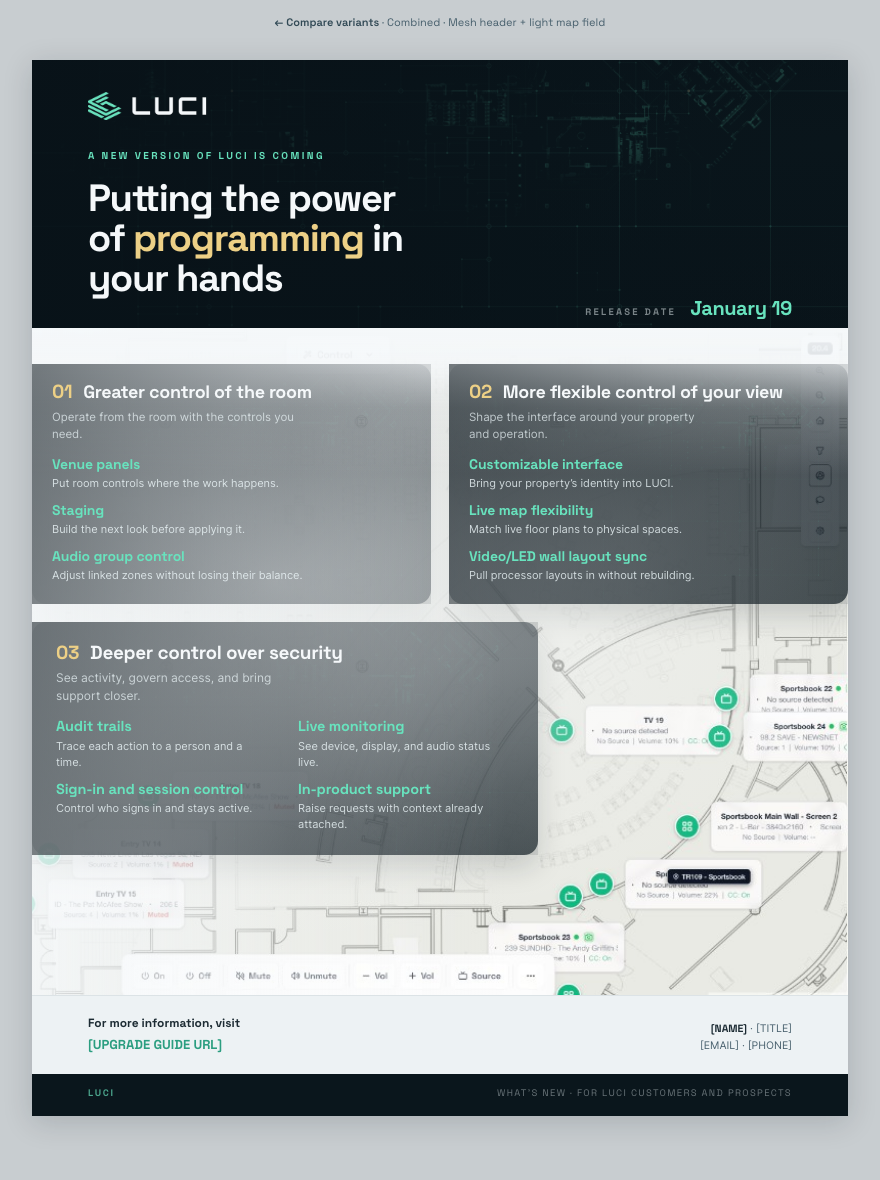
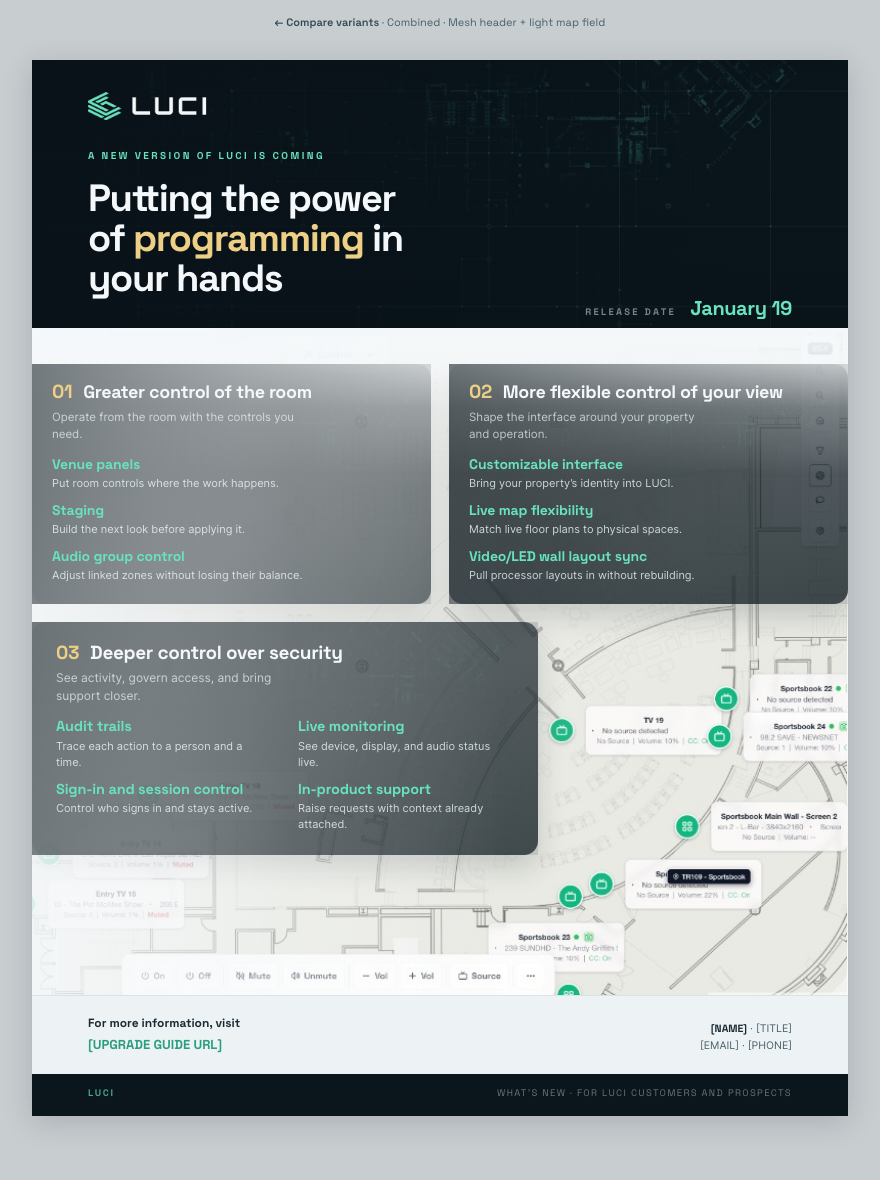
What's New one-pager: diagonal map fade, not a white circle
The radial wash read as a white halo behind the cards, not as the map
fading. Replaced with a 135deg linear fade in the map's own paper
tone (#F3F4F2) that quiets the floorplan lines toward the card
area (top-left) and clears by mid-field. No circular shape; the
map recedes toward the cards instead of having a circle behind them.

Changed region(s): [[0.2761, 0.3966, 0.7057, 0.6712]]

diff --git a/LUCI Systems Design System/ui_kits/sales/new-luci-whats-new-onepager-flow-c.html b/LUCI Systems Design System/ui_kits/sales/new-luci-whats-new-onepager-flow-c.html
@@ -68,9 +68,9 @@ body{font-family:var(--font-body);background:#c8cdd0;color:var(--ink);font-size:
 /* Three fades working together:
    - Top band: clean paper for the section label.
    - Left edge: muted entry-TV cards recede behind the live sportsbook side.
-   - Card area: the map fades behind where 01/02/03 sit (top-left
-     through mid), so the cards don't fight the floorplan lines. The
-     bottom-right stays vivid — that's the backwards L proof. */
+   - Card area: the map fades diagonally toward where 01/02/03 sit
+     (top-left), so the floorplan lines quiet behind the cards without
+     a circular halo. Clears by mid-field so the backwards L stays vivid. */
 .field__scrim{position:absolute;inset:0;z-index:1;pointer-events:none;
   background:
     linear-gradient(to bottom,
@@ -79,9 +79,9 @@ body{font-family:var(--font-body);background:#c8cdd0;color:var(--ink);font-size:
     linear-gradient(to right,
       rgba(245,248,250,0.82) 0%, rgba(245,248,250,0.62) 14%,
       rgba(245,248,250,0.24) 32%, transparent 58%),
-    radial-gradient(85% 62% at 30% 38%,
-      rgba(245,248,250,0.72) 0%, rgba(245,248,250,0.48) 30%,
-      rgba(245,248,250,0.18) 60%, rgba(245,248,250,0) 88%)}}
+    linear-gradient(135deg,
+      rgba(243,244,242,0.68) 0%, rgba(243,244,242,0.42) 28%,
+      rgba(243,244,242,0.12) 52%, transparent 72%)}}
 
 .copy{position:relative;z-index:2;height:100%;display:flex;flex-direction:column;
   padding:18px 32px 34px}
